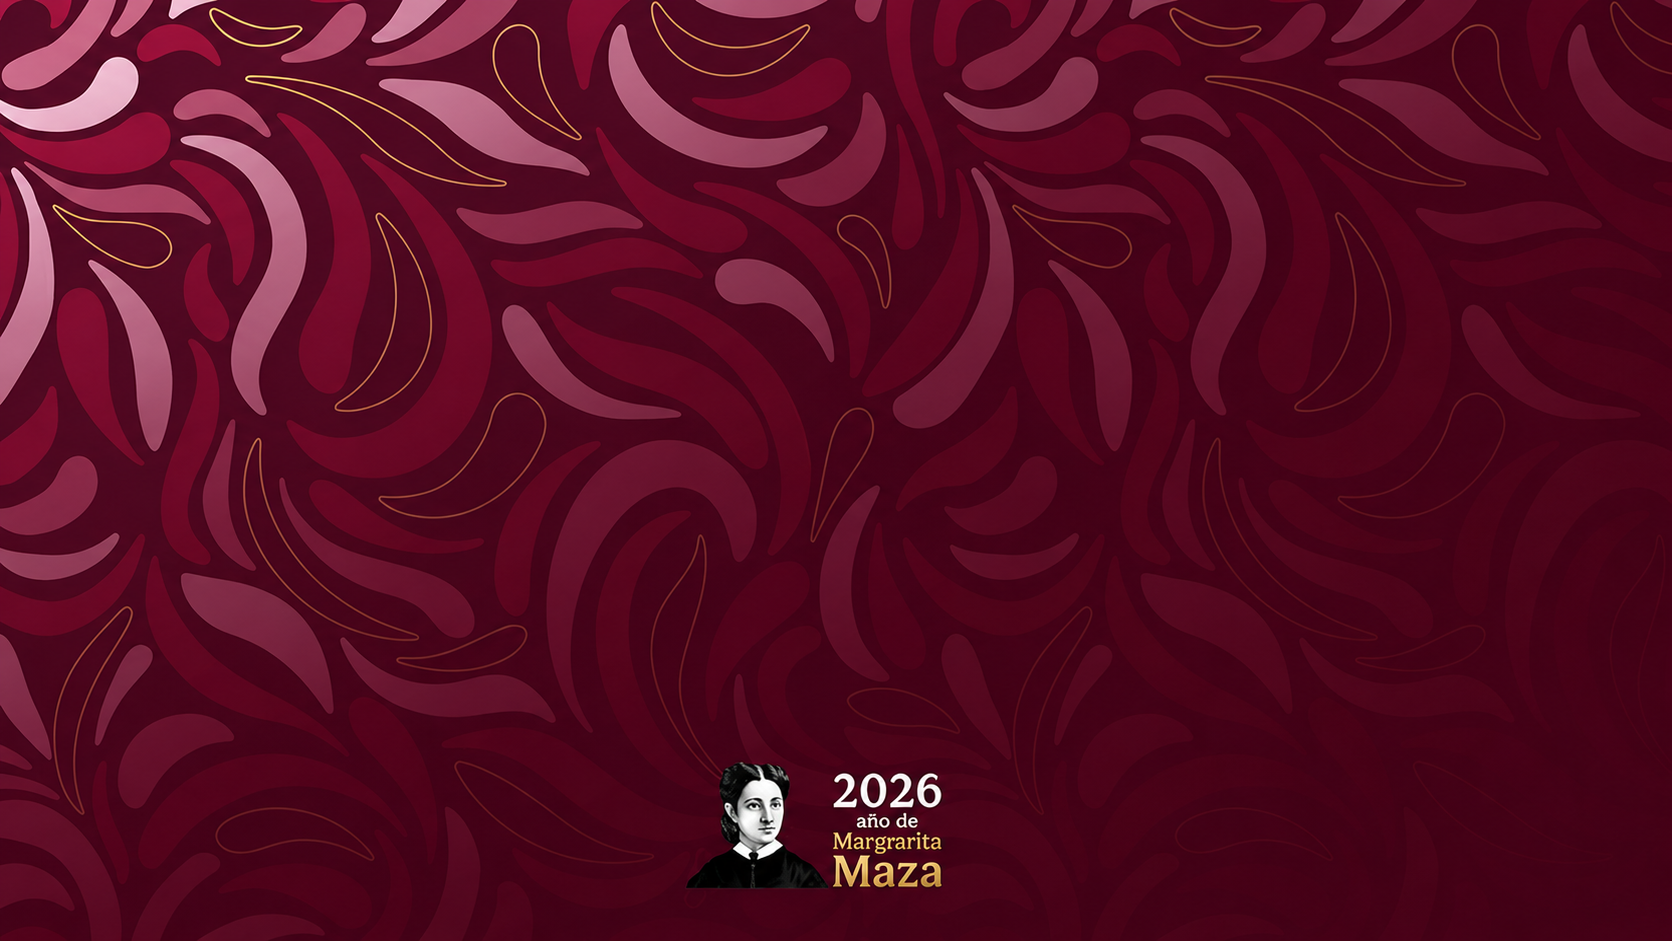
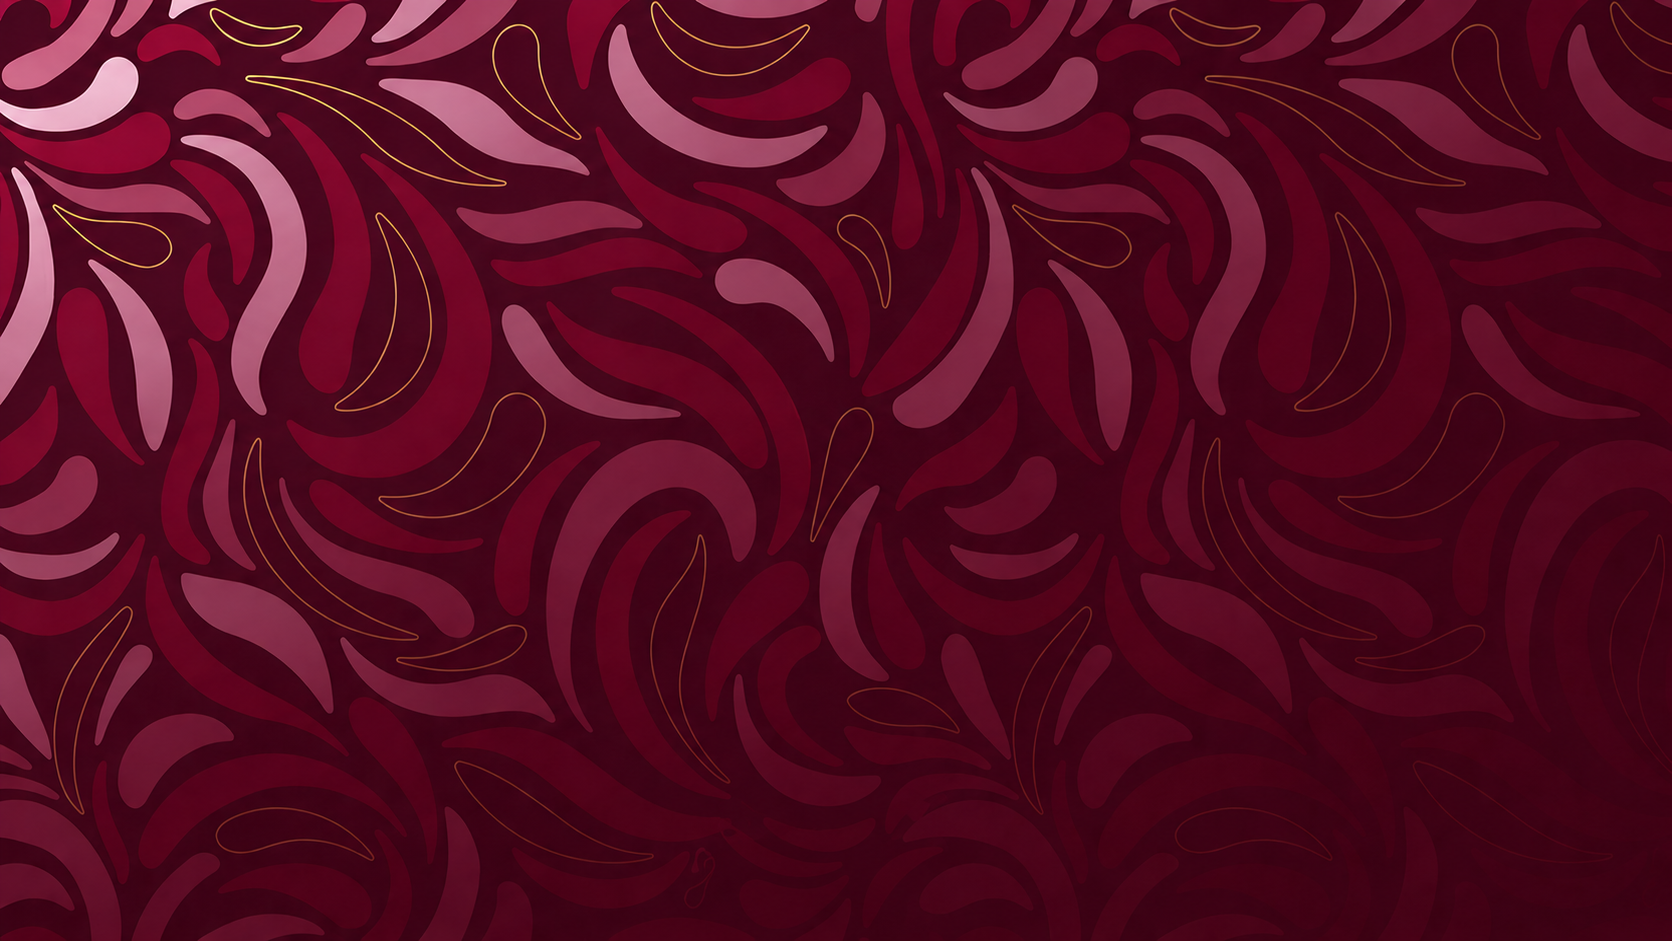
imges

diff --git a/templates/index.html b/templates/index.html
@@ -219,15 +219,13 @@
 
     <div class="card">
         <div class="card-header">
-            <div class="card-icon">📋</div>
             <div>
-                <h2>Agenda Diaria</h2>
-                <p>Sistema web para actualización de la agenda diaria integrando la información en tiempo real a Google Sheets.</p>
+                <h2>Sistema web para actualización de la agenda diaria integrando la información en tiempo real a Google Sheets</h2>
             </div>
         </div>
         <div class="banda"></div>
         <div class="card-body">
-            <label for="texto">Texto de la agenda</label>
+            <label for="texto">Actividades</label>
             <textarea
                 id="texto"
                 placeholder="Copie y pegue aquí el texto de la agenda enviada por WhatsApp..."
